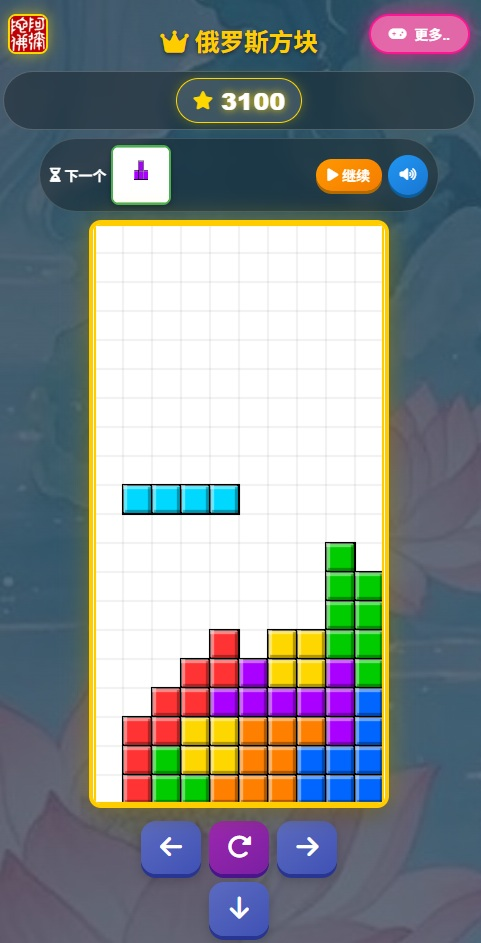
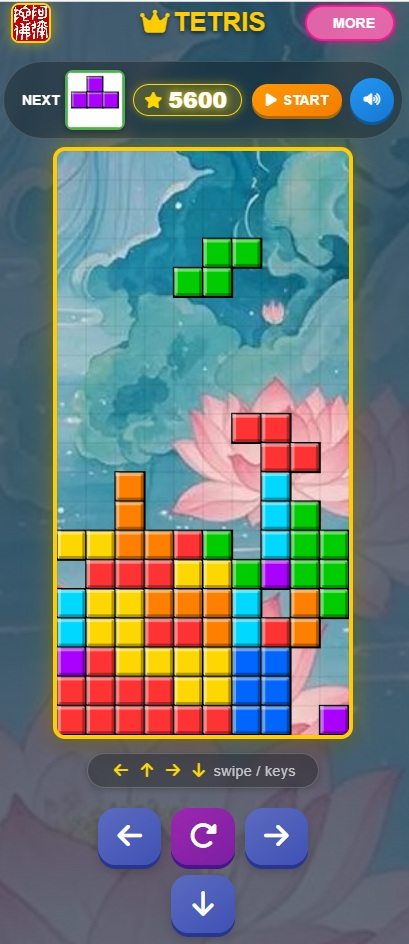
replace game.html with tetris

diff --git a/main.html b/main.html
@@ -491,7 +491,7 @@
                         <span><i class="far fa-clock"></i> 5-30分钟</span>
                     </div>
                     <p class="game-description">经典俄罗斯方块游戏，针对电脑与移动特别端优化</p>
-                    <a href="https://amitofoicu.github.io/home/game.html" class="game-link" target="_blank">立即游玩 <i class="fas fa-external-link-alt"></i></a>
+                    <a href="https://amitofoicu.github.io/home/tetris/index.html" class="game-link" target="_blank">立即游玩 <i class="fas fa-external-link-alt"></i></a>
                 </div>
             </div>
             
